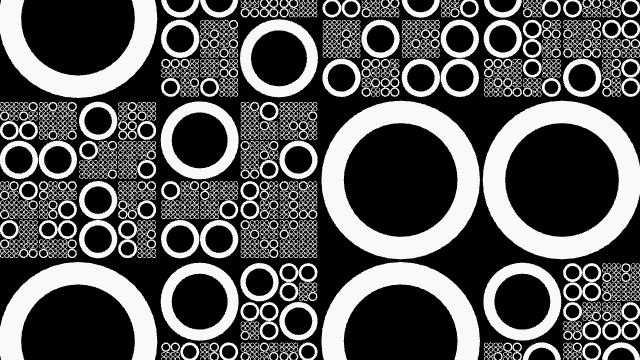
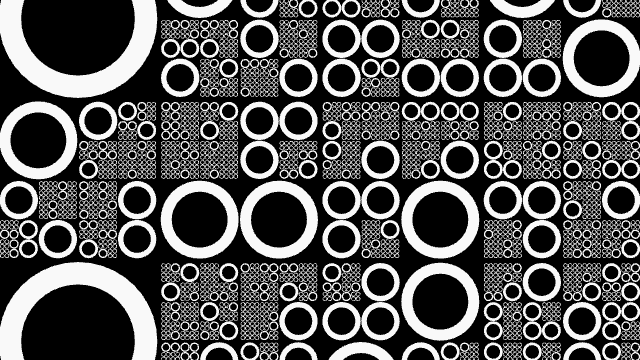
v2

diff --git a/src/ops/base/Ops.Gl.Matrix.RandomGridPlacementArrays/Ops.Gl.Matrix.RandomGridPlacementArrays.js b/src/ops/base/Ops.Gl.Matrix.RandomGridPlacementArrays/Ops.Gl.Matrix.RandomGridPlacementArrays.js
@@ -1,10 +1,9 @@
 const
     exe = op.inTrigger("Exe"),
-    maxDepth = op.inValue("max Depth", 3),
+    maxDepth = op.inValue("max Depth", 4),
     deeper = op.inValueSlider("Possibility", 0.5),
     seed = op.inValue("Seed", 1),
     inScale = op.inValueSlider("Scale", 1),
-    gapSize = op.inValue("Gap Size", 0.05),
     width = op.inValue("Width", 4),
     height = op.inValue("Height", 3),
     outPosArr = op.outArray("Positions"),
@@ -12,13 +11,9 @@ const
     outArrayLength = op.outNumber("Array Length"),
     outArrayPoints = op.outNumber("Total Points");
 
-// Reference to cables.gl
 const cgl = op.patch.cgl;
-
-// Flags and variables for state management
 let needsChange = true;
 let globalScale = 1;
-let gap_size = gapSize.get();
 let vPos = vec3.create();
 let vScale = vec3.create();
 let hhalf = 0;
@@ -26,69 +21,50 @@ let whalf = 0;
 let index = 0;
 let arrPos = [];
 let arrScale = [];
+
 let count = 0;
 
-// Set needsChange to true when any of the inputs change
 maxDepth.onChange =
     deeper.onChange =
-    seed.onChange =
-    inScale.onChange =
-    width.onChange =
-    height.onChange =
-    gapSize.onChange =
-    function () {
-        needsChange = true;
-    };
+        seed.onChange =
+            inScale.onChange =
+                width.onChange =
+                    height.onChange =
+                        function ()
+                        {
+                            needsChange = true;
+                        };
 
-// Recursive function to draw squares
-function drawSquare(x, y, depth, scale) {
-    // Determine whether to go deeper based on random chance and possibility slider
+function drawSquare(x, y, depth, scale)
+{
     let godeeper = Math.seededRandom() > deeper.get() * 0.9;
 
-    // Stop recursion if max depth is reached
-    if (depth >= maxDepth.get()) {
-        godeeper = false;
-    }
+    if (depth > maxDepth.get())godeeper = false;
 
-    if (godeeper) {
-        // Calculate new scale for child squares, accounting for gap size
-        let new_scale = (scale - gap_size) / 2;
+    if (godeeper)
+    {
+        depth++;
+        let st = 1 / (depth * depth);
 
-        // Stop recursion if the new scale is too small
-        if (new_scale <= 0) {
-            godeeper = false;
-        } else {
-            // Loop to create four child squares
-            for (let _x = 0; _x < 2; _x++) {
-                for (let _y = 0; _y < 2; _y++) {
-                    // Calculate offsets for child squares, including gap size
-                    let x_offset = _x * (new_scale + gap_size);
-                    let y_offset = _y * (new_scale + gap_size);
+        for (let _x = 0; _x < 2; _x++)
+        {
+            for (let _y = 0; _y < 2; _y++)
+            {
+                let xx = _x * scale / 2;
+                let yy = _y * scale / 2;
 
-                    // Calculate new positions for child squares
-                    let x_new = x - (scale / 2) + (new_scale / 2) + x_offset;
-                    let y_new = y - (scale / 2) + (new_scale / 2) + y_offset;
-
-                    // Recursively draw child squares
-                    drawSquare(
-                        x_new,
-                        y_new,
-                        depth + 1,
-                        new_scale
-                    );
-                }
+                drawSquare(
+                    x + xx - scale / 4,
+                    y + yy - scale / 4,
+                    depth,
+                    scale / 2 * globalScale);
             }
         }
     }
-
-    if (!godeeper) {
-        // Set scale vector for the square
+    else
+    {
         vec3.set(vScale, scale, scale, scale);
-
-        // Set position vector for the square
-        vec3.set(vPos, x, y, 0);
-
-        // Increment index and store position and scale in arrays
+        vec3.set(vPos, x - whalf + 0.5, y - hhalf + 0.5, 0);
         index++;
 
         arrPos[count * 3 + 0] = vPos[0];
@@ -103,45 +79,35 @@ function drawSquare(x, y, depth, scale) {
     }
 }
 
-// Main execution function triggered by 'Exe' input
-exe.onTriggered = function () {
-    // Only proceed if inputs have changed
+exe.onTriggered = function ()
+{
     if (!needsChange) return;
 
-    // Reset flags and variables
     needsChange = false;
     index = 0;
     Math.randomSeed = seed.get();
 
+    whalf = width.get() / 2;
+    hhalf = height.get() / 2;
+
     globalScale = inScale.get();
-    gap_size = gapSize.get();
 
-    // Calculate half dimensions of the grid, including gaps, for centering
-    whalf = (width.get() * (globalScale + gap_size)) / 2;
-    hhalf = (height.get() * (globalScale + gap_size)) / 2;
-
-    // Clear position and scale arrays
     arrPos.length = 0;
     arrScale.length = 0;
     count = 0;
 
-    // Loop over grid dimensions to create initial squares
-    for (let x = 0; x < width.get(); x++) {
-        for (let y = 0; y < height.get(); y++) {
-            // Calculate initial positions for squares, including gaps
-            let x_pos = x * (globalScale + gap_size) - whalf + (globalScale + gap_size) / 2;
-            let y_pos = y * (globalScale + gap_size) - hhalf + (globalScale + gap_size) / 2;
-
-            // Start drawing squares recursively from initial positions
-            drawSquare(x_pos, y_pos, 0, globalScale);
+    for (let x = 0; x < width.get(); x++)
+    {
+        for (let y = 0; y < height.get(); y++)
+        {
+            drawSquare(x, y, 0, globalScale);
+            let sc = 1;
         }
     }
 
-    // Output the length and total points of the arrays
     outArrayLength.set(arrPos.length);
     outArrayPoints.set(arrPos.length / 3);
 
-    // Set the position and scale arrays as outputs
     outPosArr.setRef(arrPos);
     outScaleArr.setRef(arrScale);
 };

diff --git a/src/ops/base/Ops.Gl.Matrix.RandomGridPlacementArrays_v2/Ops.Gl.Matrix.RandomGridPlacementArrays_v2.js b/src/ops/base/Ops.Gl.Matrix.RandomGridPlacementArrays_v2/Ops.Gl.Matrix.RandomGridPlacementArrays_v2.js
@@ -1,0 +1,147 @@
+const
+    exe = op.inTrigger("Exe"),
+    maxDepth = op.inValue("max Depth", 3),
+    deeper = op.inValueSlider("Possibility", 0.5),
+    seed = op.inValue("Seed", 1),
+    inScale = op.inValueSlider("Scale", 1),
+    gapSize = op.inValue("Gap Size", 0.05),
+    width = op.inValue("Width", 4),
+    height = op.inValue("Height", 3),
+    outPosArr = op.outArray("Positions"),
+    outScaleArr = op.outArray("Scalings"),
+    outArrayLength = op.outNumber("Array Length"),
+    outArrayPoints = op.outNumber("Total Points");
+
+// Reference to cables.gl
+const cgl = op.patch.cgl;
+
+// Flags and variables for state management
+let needsChange = true;
+let globalScale = 1;
+let gap_size = gapSize.get();
+let vPos = vec3.create();
+let vScale = vec3.create();
+let hhalf = 0;
+let whalf = 0;
+let index = 0;
+let arrPos = [];
+let arrScale = [];
+let count = 0;
+
+// Set needsChange to true when any of the inputs change
+maxDepth.onChange =
+    deeper.onChange =
+    seed.onChange =
+    inScale.onChange =
+    width.onChange =
+    height.onChange =
+    gapSize.onChange =
+    function () {
+        needsChange = true;
+    };
+
+// Recursive function to draw squares
+function drawSquare(x, y, depth, scale) {
+    // Determine whether to go deeper based on random chance and possibility slider
+    let godeeper = Math.seededRandom() > deeper.get() * 0.9;
+
+    // Stop recursion if max depth is reached
+    if (depth >= maxDepth.get()) {
+        godeeper = false;
+    }
+
+    if (godeeper) {
+        // Calculate new scale for child squares, accounting for gap size
+        let new_scale = (scale - gap_size) / 2;
+
+        // Stop recursion if the new scale is too small
+        if (new_scale <= 0) {
+            godeeper = false;
+        } else {
+            // Loop to create four child squares
+            for (let _x = 0; _x < 2; _x++) {
+                for (let _y = 0; _y < 2; _y++) {
+                    // Calculate offsets for child squares, including gap size
+                    let x_offset = _x * (new_scale + gap_size);
+                    let y_offset = _y * (new_scale + gap_size);
+
+                    // Calculate new positions for child squares
+                    let x_new = x - (scale / 2) + (new_scale / 2) + x_offset;
+                    let y_new = y - (scale / 2) + (new_scale / 2) + y_offset;
+
+                    // Recursively draw child squares
+                    drawSquare(
+                        x_new,
+                        y_new,
+                        depth + 1,
+                        new_scale
+                    );
+                }
+            }
+        }
+    }
+
+    if (!godeeper) {
+        // Set scale vector for the square
+        vec3.set(vScale, scale, scale, scale);
+
+        // Set position vector for the square
+        vec3.set(vPos, x, y, 0);
+
+        // Increment index and store position and scale in arrays
+        index++;
+
+        arrPos[count * 3 + 0] = vPos[0];
+        arrPos[count * 3 + 1] = vPos[1];
+        arrPos[count * 3 + 2] = vPos[2];
+
+        arrScale[count * 3 + 0] = vScale[0];
+        arrScale[count * 3 + 1] = vScale[1];
+        arrScale[count * 3 + 2] = vScale[2];
+
+        count++;
+    }
+}
+
+// Main execution function triggered by 'Exe' input
+exe.onTriggered = function () {
+    // Only proceed if inputs have changed
+    if (!needsChange) return;
+
+    // Reset flags and variables
+    needsChange = false;
+    index = 0;
+    Math.randomSeed = seed.get();
+
+    globalScale = inScale.get();
+    gap_size = gapSize.get();
+
+    // Calculate half dimensions of the grid, including gaps, for centering
+    whalf = (width.get() * (globalScale + gap_size)) / 2;
+    hhalf = (height.get() * (globalScale + gap_size)) / 2;
+
+    // Clear position and scale arrays
+    arrPos.length = 0;
+    arrScale.length = 0;
+    count = 0;
+
+    // Loop over grid dimensions to create initial squares
+    for (let x = 0; x < width.get(); x++) {
+        for (let y = 0; y < height.get(); y++) {
+            // Calculate initial positions for squares, including gaps
+            let x_pos = x * (globalScale + gap_size) - whalf + (globalScale + gap_size) / 2;
+            let y_pos = y * (globalScale + gap_size) - hhalf + (globalScale + gap_size) / 2;
+
+            // Start drawing squares recursively from initial positions
+            drawSquare(x_pos, y_pos, 0, globalScale);
+        }
+    }
+
+    // Output the length and total points of the arrays
+    outArrayLength.set(arrPos.length);
+    outArrayPoints.set(arrPos.length / 3);
+
+    // Set the position and scale arrays as outputs
+    outPosArr.setRef(arrPos);
+    outScaleArr.setRef(arrScale);
+};
